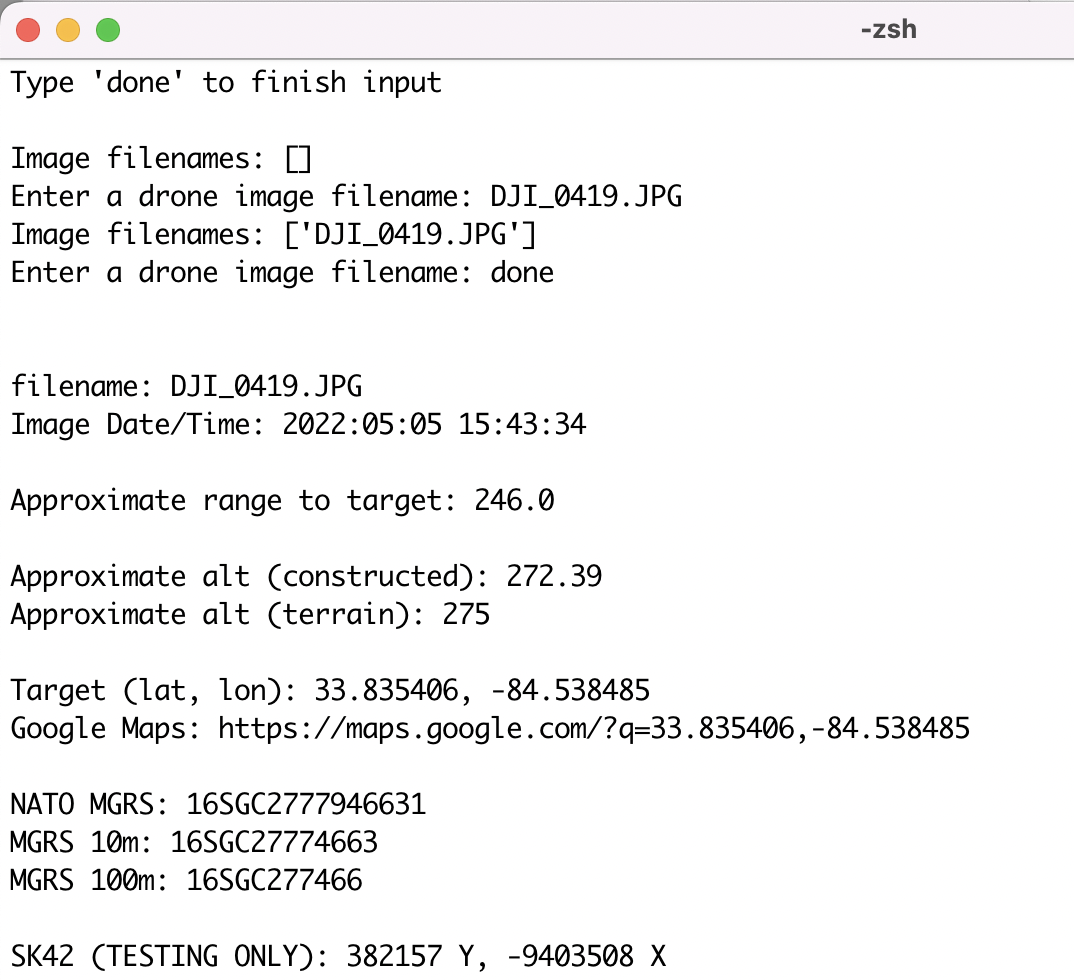
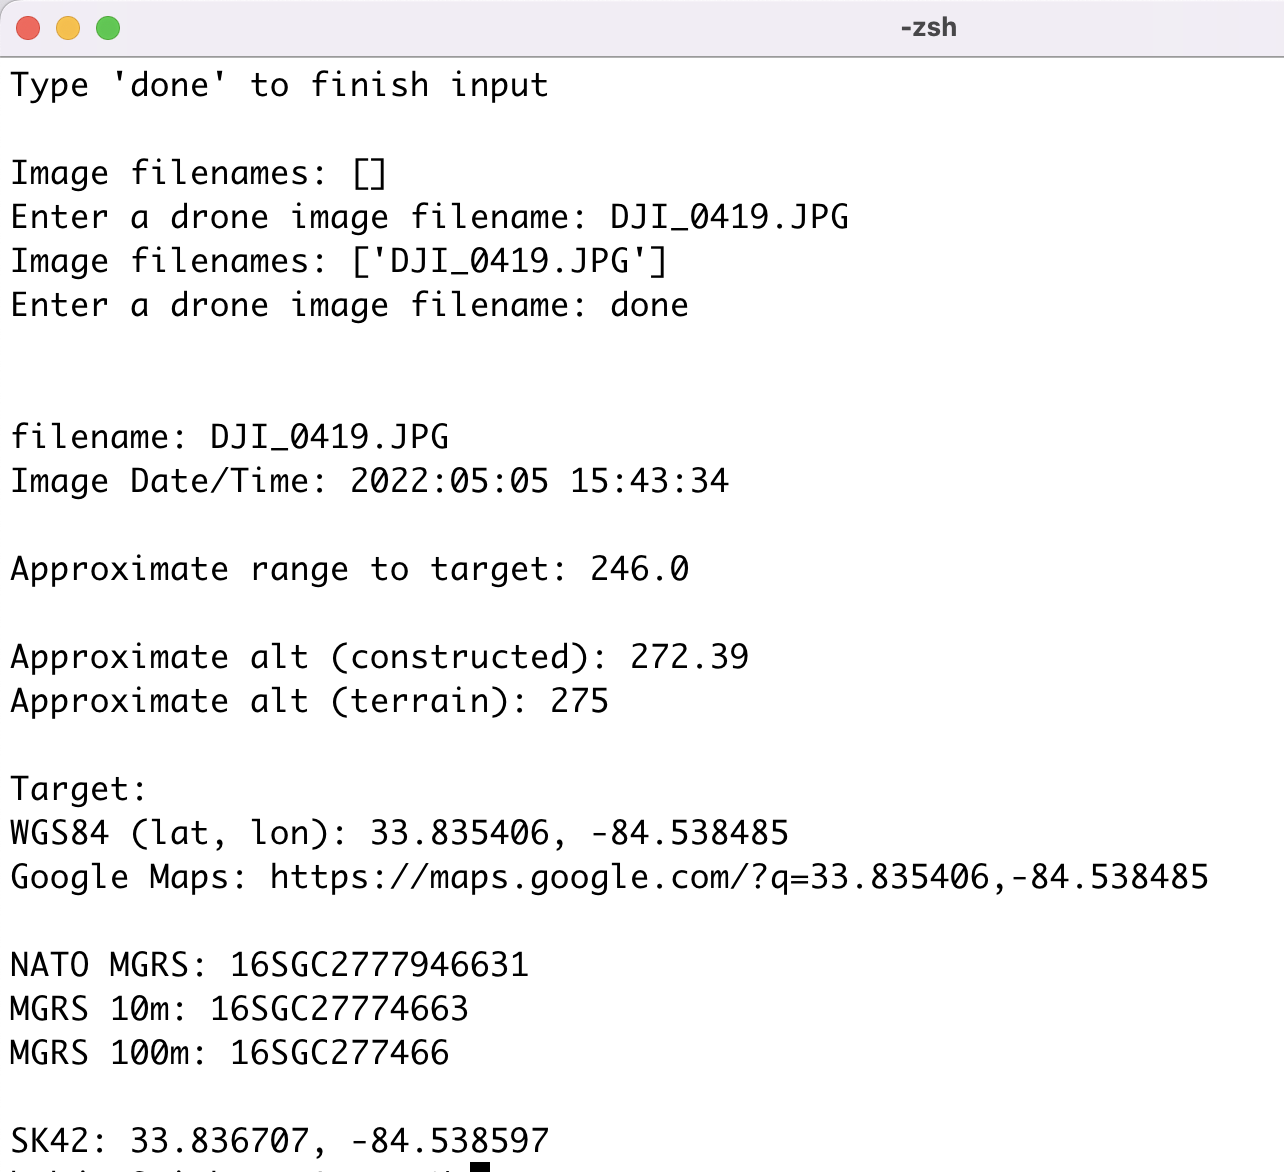
add SK-42 (A.K.A. CK-42) support

diff --git a/src/parseImage.py b/src/parseImage.py
@@ -36,8 +36,8 @@ import decimal # more float precision with Decimal objects
 from osgeo import gdal # en.wikipedia.org/wiki/GDAL
 # https://pypi.org/project/mgrs/
 import mgrs # Military Grid ref converter
-# https://pypi.org/project/pyproj/
-from pyproj import Transformer # Python interface to PROJ (cartographic projections and coordinate transformations library)
+# # https://pypi.org/project/pyproj/
+# from pyproj import Transformer # Python interface to PROJ (cartographic projections and coordinate transformations library)
 
 from PIL import Image
 from PIL import ExifTags
@@ -51,6 +51,8 @@ from PIL import ExifTags
 
 from parseGeoTIFF import getAltFromLatLon, binarySearchNearest
 from getTarget import *
+
+from WGS84_SK42_Translator import Translator as converter # rafasaurus' SK42 coord translator
 
 """prompt the user for options input,
        then extract data from image(s)
@@ -246,26 +248,30 @@ def parseImage():
                 file_object.write(targetMGRS + "\n")
                 file_object.write(targetMGRS10m + "\n")
                 file_object.write(targetMGRS100m + "\n")
-                file_object.write("# format: lat, lon, alt, dist, time, MGRS 1m, MGRS 10m, MGRS 100m, SK42 Lat (EXPERIMENTAL), SK42 Lon (EXPERIMENTAL)\n")
 
-                # normal decimal like GPS co-ords, "WGS84"
-                wgs84 = "epsg:4326"
-                # SK-42, A.K.A Pulkovo 1942 A.K.A Gauss Kruger
-                # alternative, ellipsoidal projection used by
-                # many old soviet maps
-                #
-                # coordinates expressed as Y, X, units in meters
-                #
-                # ID:
-                #     CM 159 E
-                #     epsg:4284
-                #     https://spatialreference.org/ref/epsg/4284/
-                sk42 = "epsg:28468"
-                transformer = Transformer.from_crs(wgs84, sk42)
-                targetSK42Lon, targetSK42Lat = transformer.transform(float(tarX), float(tarY))
 
+                # # normal decimal like GPS co-ords, "WGS84"
+                # wgs84 = "epsg:4326"
+                # # SK-42, A.K.A CK-42 A.K.A. Pulkovo 1942 A.K.A Gauss Kruger
+                # # alternative, ellipsoidal projection used by
+                # # many old soviet maps
+                # #
+                # # coordinates expressed as Y, X, units in meters
+                # #
+                # # ID:
+                # #     CM 159 E
+                # #     epsg:4284
+                # #     https://spatialreference.org/ref/epsg/4284/
+                # sk42 = "epsg:28468"
+                # transformer = Transformer.from_crs(wgs84, sk42)
+                # targetSK42Lon, targetSK42Lat = transformer.transform(float(tarX), float(tarY))
+
+                targetSK42Lat = converter.WGS84_SK42_Lat(float(tarY), float(tarX), float(tarZ))
+                targetSK42Lon = converter.WGS84_SK42_Long(float(tarY), float(tarX), float(tarZ))
                 file_object.write(f'{targetSK42Lat}Y\n')
                 file_object.write(f'{targetSK42Lon}X\n')
+
+                file_object.write("# format: lat, lon, alt, dist, time, MGRS 1m, MGRS 10m, MGRS 100m, SK42 Lat, SK42 Lon\n")
 
                 if make == "AUTEL ROBOTICS":
                     file_object.write(f'# CAUTION: in-accuracies have been observed with Autel drones. This result is from a "{model}" drone')
@@ -284,8 +290,8 @@ def parseImage():
                 print(f'Approximate alt (terrain): {terrainAlt}\n')
 
 
-
-                print(f'Target (lat, lon): {round(tarY, 7)}, {round(tarX, 7)}')
+                print('Target:')
+                print(f'WGS84 (lat, lon): {round(tarY, 6)}, {round(tarX, 6)}')
                 print(f'Google Maps: https://maps.google.com/?q={round(tarY,6)},{round(tarX,6)}\n')
                 # en.wikipedia.org/wiki/Military_Grid_Reference_System
                 # via github.com/hobuinc/mgrs
@@ -297,24 +303,28 @@ def parseImage():
                 print(f'MGRS 10m: {targetMGRS10m}')
                 print(f'MGRS 100m: {targetMGRS100m}\n')
 
-                # normal decimal like GPS co-ords, "WGS84"
-                wgs84 = "epsg:4326"
-                # SK-42, A.K.A Pulkovo 1942 A.K.A Gauss Kruger
-                # alternative, ellipsoidal projection used by
-                # many old soviet maps
-                #
-                # coordinates expressed as Y, X, units in meters
-                #
-                # ID:
-                #     CM 159 E
-                #     epsg:4284
-                #     https://spatialreference.org/ref/epsg/4284/
-                sk42 = "epsg:28468"
-                transformer = Transformer.from_crs(wgs84, sk42)
-                targetSK42Lon, targetSK42Lat = transformer.transform(float(tarX), float(tarY))
-                targetSK42Lon = str(round(targetSK42Lon,0)).split('.')[0]
-                targetSK42Lat = str(round(targetSK42Lat,0)).split('.')[0]
-                print(f'SK42 (TESTING ONLY): {targetSK42Lat} Y, {targetSK42Lon} X')
+                # # normal decimal like GPS co-ords, "WGS84"
+                # wgs84 = "epsg:4326"
+                # # SK-42, A.K.A CK-42 A.KA Pulkovo 1942 A.K.A Gauss Kruger
+                # # alternative, ellipsoidal projection used by
+                # # many old soviet maps
+                # #
+                # # coordinates expressed as Y, X, units in meters
+                # #
+                # # ID:
+                # #     CM 159 E
+                # #     epsg:4284
+                # #     https://spatialreference.org/ref/epsg/4284/
+                # sk42 = "epsg:4284"
+                # transformer = Transformer.from_crs(wgs84, sk42)
+                # targetSK42Lon, targetSK42Lat = transformer.transform(float(tarX), float(tarY))
+                # targetSK42Lon = str(round(targetSK42Lon,0)).split('.')[0]
+                # targetSK42Lat = str(round(targetSK42Lat,0)).split('.')[0]
+                # print(f'SK42 (TESTING ONLY): {targetSK42Lat} Y, {targetSK42Lon} X')
+
+                targetSK42Lat = converter.WGS84_SK42_Lat(float(tarY), float(tarX), float(tarZ))
+                targetSK42Lon = converter.WGS84_SK42_Long(float(tarY), float(tarX), float(tarZ))
+                print(f'SK42: {round(targetSK42Lat, 6)}, {round(targetSK42Lon, 6)}')
 
 
     #

diff --git a/src/WGS84_SK42_Translator.py b/src/WGS84_SK42_Translator.py
@@ -1,0 +1,147 @@
+# coding=utf-8           # -*- coding: utf-8 -*-
+#!/usr/bin/env python
+""" generated source for module WGS84_SK42_Translator """
+""" Originally from user rafasaurus on GitHub
+    Licensed under the GPLv2
+    https://www.gnu.org/licenses/old-licenses/gpl-2.0.en.html"""
+
+import math
+import numpy as np
+#
+#
+# resource from www.gis-lab.info
+# http://gis-lab.info/qa/wgs84-sk42-wgs84-formula.html
+# http://gis-lab.info/qa/datum-transform-methods.html
+# @author Raven
+#
+class Translator(object):
+    """ generated source for class WGS84_SK42_Translator """
+
+    #
+    # convert from WGS-84 to SK-42.
+    # @param Bd longitude
+    # @param Ld latitude
+    # @param H altitude
+    # @return  longitude in SK-42
+    #
+    ro = np.float64(206264.8062) # Число угловых секунд в радиане # Number of arcseconds in radians
+
+    # Эллипсоид Красовского
+    # Krasovsky's ellipsoid
+    aP = np.float64(6378245) # Большая полуось # Semi-major axis
+    alP = np.float64(1 / 298.3) # Сжатие # Compression
+    e2P = np.float64(2 * alP - math.pow(alP, 2)) # Квадрат эксцентриситета # Square of eccentricity
+
+
+    # Эллипсоид WGS84 (GRS80, эти два эллипсоида сходны по большинству параметров)
+    # Ellipsoid WGS84 (GRS80, these two ellipsoids are similar in most parameters)
+    aW = np.float64(6378137) # Большая полуось
+    alW = np.float64(1 / 298.257223563) # Сжатие
+    e2W = np.float64(2 * alW - math.pow(alW, 2)) # Квадрат эксцентриситета
+
+    # Вспомогательные значения для преобразования эллипсоидов
+    # Auxiliary values for transforming ellipsoids
+    a = np.float64((aP + aW) / 2)
+    e2 = np.float64((e2P + e2W) / 2)
+    da = np.float64(aW - aP)
+    de2 = np.float64(e2W - e2P)
+
+    # Линейные элементы трансформирования, в метрах
+    # Linear transform elements, in meters
+    dx = np.float64(23.92)
+    dy = np.float64(-141.27)
+    dz = np.float64(-80.9)
+
+    # Угловые элементы трансформирования, в секундах
+    # Corner transform elements, in seconds
+    wx = np.float64(0)
+    wy = np.float64(0)
+    wz = np.float64(0)
+
+    # Дифференциальное различие масштабов
+    # Differential scale difference
+    ms = np.float64(0)
+
+    @classmethod
+    def WGS84_SK42_Lat(cls, Bd, Ld, H):
+        return Bd - cls.dB(Bd, Ld, H) / 3600
+
+    #
+    # convert from SK-42 to WGS-84.
+    # @param Bd longitude
+    # @param Ld latitude
+    # @param H altitude
+    # @return longitude in WGS-84
+    #
+    @classmethod
+    def SK42_WGS84_Lat(cls, Bd, Ld, H):
+        return Bd + cls.dB(Bd, Ld, H) / 3600
+
+    #
+    # convert from WGS-84 to SK-42.
+    # @param Bd longitude
+    # @param Ld latitude
+    # @param H altitude
+    # @return latitude in SK-42
+    #
+    @classmethod
+    def WGS84_SK42_Long(cls, Bd, Ld, H):
+        return Ld - cls.dL(Bd, Ld, H) / 3600
+
+    #
+    # convert from SK-42 to WGS-84.
+    # @param Bd longitude
+    # @param Ld latitude
+    # @param H altitude
+    # @return latitude in WGS-84
+    #
+    @classmethod
+    def SK42_WGS84_Long(cls, Bd, Ld, H):
+        return Ld + cls.dL(Bd, Ld, H) / 3600
+
+    #
+    # @param Bd longitude
+    # @param Ld latitude
+    # @param H altitude
+    # @return
+    #
+    @classmethod
+    def dB(cls, Bd, Ld, H):
+        # import pdb
+        # pdb.set_trace()
+        # should be 0.7050959999929773
+        B = Bd * math.pi / 180
+        L = Ld * math.pi / 180
+        M = cls.a * (1 - cls.e2) / math.pow((1 - cls.e2 * math.pow(math.sin(B), 2)), 1.5)
+        N = cls.a * math.pow((1 - cls.e2 * math.pow(math.sin(B), 2)), -0.5)
+        result = cls.ro / (M + H) * (N / cls.a * cls.e2 * math.sin(B) * math.cos(B) * cls.da + (N ** 2 / cls.a ** 2 + 1) * N * math.sin(B) * math.cos(B) * cls.de2 / 2 - (cls.dx * math.cos(L) + cls.dy * math.sin(L)) * math.sin(B) + cls.dz * math.cos(B)) - cls.wx * math.sin(L) * (1 + cls.e2 * math.cos(2 * B)) + cls.wy * math.cos(L) * (1 + cls.e2 * math.cos(2 * B)) - cls.ro * cls.ms * cls.e2 * math.sin(B) * math.cos(B)
+        return result
+
+    #
+    # @param Bd longitude
+    # @param Ld latitude
+    # @param H altitude
+    # @return
+    #
+    @classmethod
+    def dL(cls, Bd, Ld, H):
+        """ generated source for method dL """
+        B = Bd * math.pi / 180
+        L = Ld * math.pi / 180
+        N = cls.a * math.pow((1 - cls.e2 * math.pow(math.sin(B), 2)), -0.5)
+        return cls.ro / ((N + H) * math.cos(B)) * (-cls.dx * math.sin(L) + cls.dy * math.cos(L)) + math.tan(B) * (1 - cls.e2) * (cls.wx * math.cos(L) + cls.wy * math.sin(L)) - cls.wz
+
+    #
+    # @param Bd longitude
+    # @param Ld latitude
+    # @param H altitude
+    # @return
+    #
+    @classmethod
+    def WGS84Alt(cls, Bd, Ld, H):
+        """ generated source for method WGS84Alt """
+        B = Bd * math.pi / 180
+        L = Ld * math.pi / 180
+        N = a * math.pow((1 - e2 * math.pow(math.sin(B), 2)), -0.5)
+        dH = -a / N * cls.da + N * math.pow(math.sin(B), 2) * de2 / 2 + (dx * math.cos(L) + dy * math.sin(L)) * math.cos(B) + cls.dz * math.sin(B) - N * e2 * math.sin(B) * math.cos(B) * (wx / ro * math.sin(L) - wy / ro * math.cos(L)) + (math.pow(a, 2) / N + H) * cls.ms
+        return H + dH

diff --git a/src/getTarget.py b/src/getTarget.py
@@ -15,7 +15,10 @@ import mgrs # Military Grid ref converter
 import math
 from math import sin, asin, cos, atan2, sqrt
 import decimal # more float precision with Decimal objects
+
 import parseGeoTIFF
+from WGS84_SK42_Translator import Translator as converter # rafasaurus' SK42 coord translator
+
 import sys
 
 """get the pos of current subject of UAS camera
@@ -72,8 +75,8 @@ def getTarget():
             print(f'Approximate alt (constructed): {round(tarZ , 2)}')
         print(f'Approximate alt (terrain): {terrainAlt}\n')
 
-
-        print(f'Target (lat, lon): {round(tarY, 7)}, {round(tarX, 7)}')
+        print('Target:')
+        print(f'WGS84 (lat, lon): {round(tarY, 7)}, {round(tarX, 7)}')
         print(f'Google Maps: https://maps.google.com/?q={round(tarY,6)},{round(tarX,6)}\n')
         # en.wikipedia.org/wiki/Military_Grid_Reference_System
         # via github.com/hobuinc/mgrs
@@ -84,6 +87,10 @@ def getTarget():
         print(f'NATO MGRS: {targetMGRS}')
         print(f'MGRS 10m: {targetMGRS10m}')
         print(f'MGRS 100m: {targetMGRS100m}\n')
+
+        targetSK42Lat = converter.WGS84_SK42_Lat(float(tarY), float(tarX), float(tarZ))
+        targetSK42Lon = converter.WGS84_SK42_Long(float(tarY), float(tarX), float(tarZ))
+        print(f'SK42: {round(targetSK42Lat, 6)}, {round(targetSK42Lon, 6)}')
 
 """get and open a geoFile named by a string
     e.g. from a command line argument

diff --git a/README.md b/README.md
@@ -95,9 +95,9 @@ This software is in pre-alpha. Use appropriate caution when using data generated
 
 [Python3](https://www.python.org/) (and the included pip package manager) must be installed first
 
-All you need to do is run `pip3 install gdal matplotlib mgrs pyproj pillow`, then run `src/parseGeoTIFF.py` with python3:
+All you need to do is run `pip3 install gdal matplotlib mgrs pillow`, then run `src/parseGeoTIFF.py` with python3:
 ```bash
-pip3 install gdal matplotlib mgrs pyproj pillow
+pip3 install gdal matplotlib mgrs pillow
 # if this fails, instead install the GDAL package with your package manager (i.e. apt, yum, brew, pacman, etc.)
 git clone https://github.com/mkrupczak3/OpenAthena.git
 cd OpenAthena/src
@@ -217,12 +217,15 @@ Approximate range to target: 1035.03
 Approximate alt (constructed): 146.01
 Approximate alt (terrain): 146.5
 
-Target (lat, lon): 33.8352826, -84.5219971
-Google Maps: https://maps.google.com/?q=33.835283,-84.521997
+Target:
+WGS84 (lat, lon): 41.8071606, 12.6400355
+Google Maps: https://maps.google.com/?q=41.807161,12.640036
 
-NATO MGRS: 16SGC2930646654
+NATO MGRS: 33TUG0395831058
 MGRS 10m: 33TUG03953105
 MGRS 100m: 33TUG039310
+
+SK42: 41.807634, 12.641757
 
 ```
 
@@ -244,12 +247,14 @@ The values should be tested for correctness and not totally relied upon in the c
 `Approximate alt (terrain):` represents the aproximate altitude (in meters from sea level) of the target according to the terrain data point closest to the final lat./lon. pair
 
 
-`Target (lat, lon):` represents the latitude and longitude of the target to which the camera is likely aiming at.
+`WGS84 (lat, lon):` represents the latitude and longitude of the target to which the camera is likely aiming at. These values, in degrees, are from the common [WGS84 coordinate system](https://en.wikipedia.org/wiki/World_Geodetic_System)
 `Google Maps:` a link to the previous lat/lon on Google Maps. Each rounded to 6 decimal places
 
 
 `NATO MGRS:` represents the target location in the [NATO Military Grid Reference System (MGRS)](https://en.wikipedia.org/wiki/Military_Grid_Reference_System), which is simmilar to [UTM](https://en.wikipedia.org/wiki/Universal_Transverse_Mercator_coordinate_system). This coordinate system does not include the altitude of the Target
 
+
+`SK42:` represents the target latitude and longitude (in degrees) according to the [SK-42 (A.K.A. CK-42) coordinate system](https://en.wikipedia.org/wiki/SK-42_reference_system) (Russian: Система координат 1942 года). This system is commonly used in old Soviet and post-Soviet style maps, and is based on a differend ellipsoidal projection than WGS84
 
 The program `getTarget.py` will then exit
 
